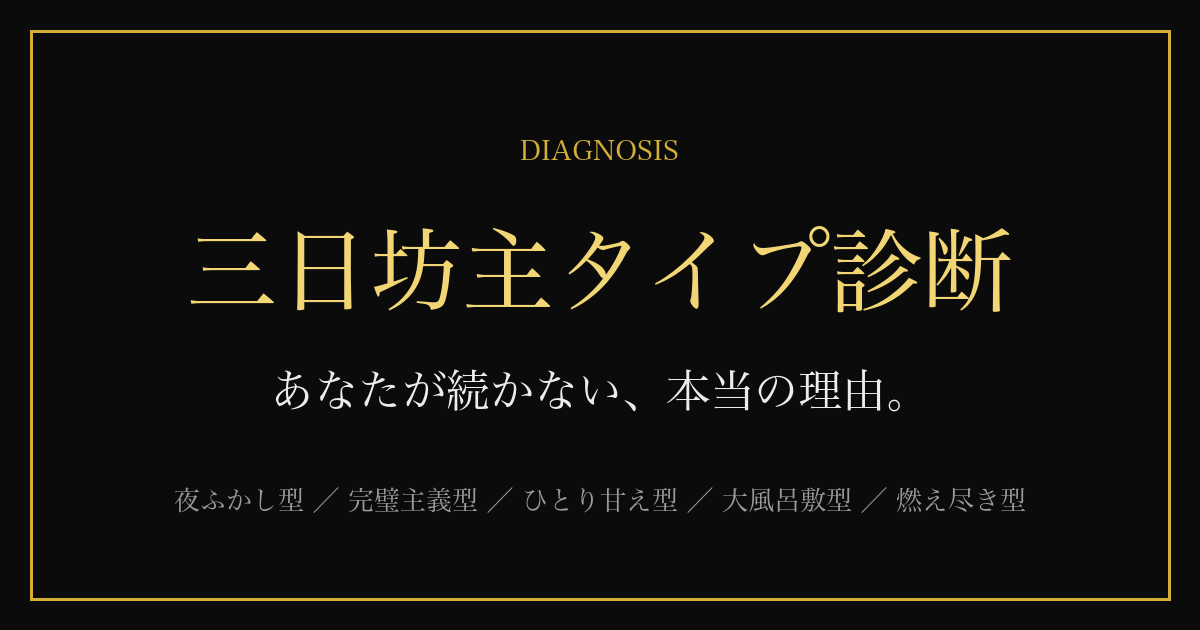
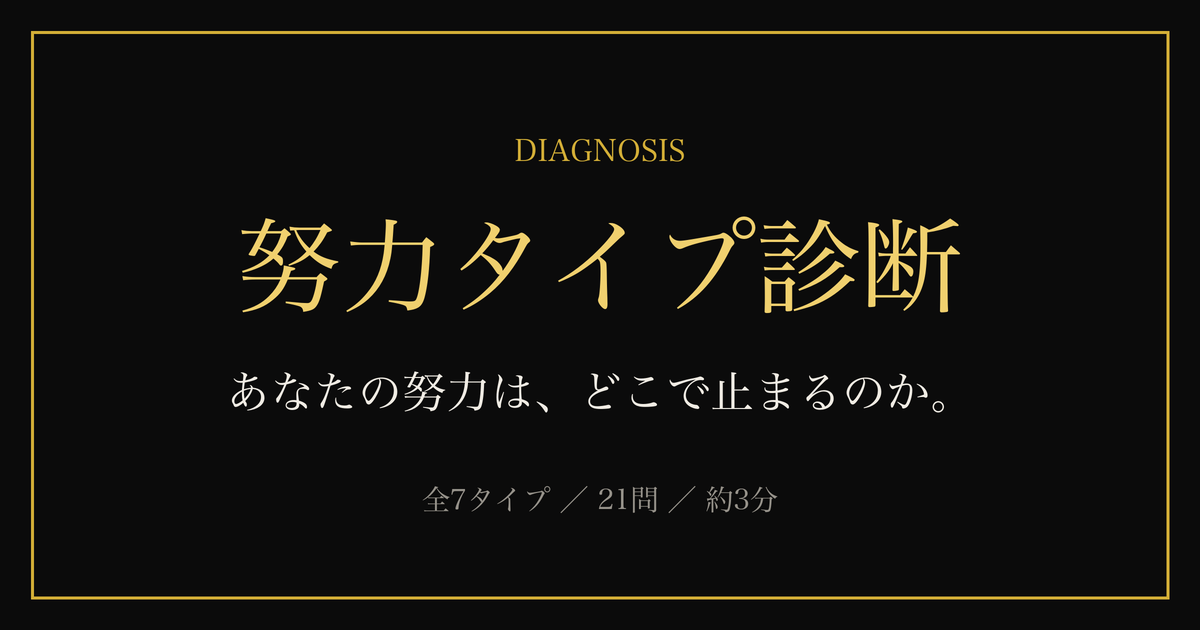
努力タイプ診断に改名し、7タイプ・21問に拡張

diff --git a/index.html b/index.html
@@ -3,11 +3,11 @@
 <head>
 <meta charset="utf-8">
 <meta name="viewport" content="width=device-width,initial-scale=1,viewport-fit=cover">
-<title>三日坊主タイプ診断｜あなたが続かない、本当の理由</title>
-<meta name="description" content="15の質問に答えるだけ。約2分で、あなたが続かない原因と、今日からの処方箋が分かります。">
+<title>努力タイプ診断｜あなたの努力は、どこで止まるのか</title>
+<meta name="description" content="21の質問に答えるだけ。約3分で、あなたの努力のタイプと、努力が止まる原因、今日からの処方箋が分かります。">
 <meta property="og:type" content="website">
-<meta property="og:title" content="三日坊主タイプ診断｜あなたが続かない、本当の理由">
-<meta property="og:description" content="15の質問に答えるだけ。約2分で、あなたが続かない原因と、今日からの処方箋が分かります。">
+<meta property="og:title" content="努力タイプ診断｜あなたの努力は、どこで止まるのか">
+<meta property="og:description" content="21の質問に答えるだけ。約3分で、あなたの努力のタイプと、努力が止まる原因、今日からの処方箋が分かります。">
 <meta property="og:image" content="https://baseball1018185-sys.github.io/mikkabozu-shindan/og.png">
 <meta property="og:url" content="https://baseball1018185-sys.github.io/mikkabozu-shindan/">
 <meta name="twitter:card" content="summary_large_image">
@@ -93,17 +93,17 @@ h1,h2,h3,.mincho{font-family:var(--mincho)}
   <section id="intro" class="screen">
     <div class="intro">
       <div class="eyebrow">DIAGNOSIS</div>
-      <h1><span>三日坊主</span><br>タイプ診断</h1>
-      <p class="lead">あなたが続かない、本当の理由。</p>
-      <p>15の質問に答えるだけ。約2分で、あなたが続かない原因と、今日からの処方箋が分かります。</p>
-      <div class="types"><span>夜ふかし型</span><span>完璧主義型</span><span>ひとり甘え型</span><span>大風呂敷型</span><span>燃え尽き型</span></div>
+      <h1><span>努力</span><br>タイプ診断</h1>
+      <p class="lead">あなたの努力は、どこで止まるのか。</p>
+      <p>21の質問に答えるだけ。約3分で、あなたの努力のタイプと、努力が止まる原因、今日からの処方箋が分かります。</p>
+      <div class="types" id="typeChips"></div>
       <button class="btn btn-gold" id="startBtn">診断をはじめる</button>
       <p class="note" style="margin-top:16px">※エンタメと自己理解のための簡易診断です。医学的な診断ではありません。</p>
     </div>
   </section>
 
   <section id="quiz" class="screen" hidden>
-    <div class="top"><button class="back" id="backBtn">← 戻る</button><span class="count" id="count">1 / 15</span></div>
+    <div class="top"><button class="back" id="backBtn">← 戻る</button><span class="count" id="count">1 / 21</span></div>
     <div class="bar"><i id="barFill"></i></div>
     <div class="qnum" id="qnum">Q1</div>
     <p class="qtext" id="qtext"></p>
@@ -117,12 +117,13 @@ h1,h2,h3,.mincho{font-family:var(--mincho)}
       <p class="catch" id="rCatch"></p>
     </div>
     <p class="lowmsg" id="lowMsg" hidden>どのタイプの傾向も弱めでした。今のやり方で続けられているなら、それが一番です。いちばん近いのは、このタイプです。</p>
-    <svg class="radar" id="radar" viewBox="0 0 340 320" role="img" aria-label="5つのタイプの傾向"></svg>
+    <svg class="radar" id="radar" viewBox="0 0 360 340" role="img" aria-label="7つのタイプの傾向"></svg>
 
-    <div class="card"><h3><b>1</b>あなたの特徴</h3><ul id="rTraits"></ul></div>
-    <div class="card"><h3><b>2</b>なぜ続かないのか</h3><p id="rCause"></p><div class="src" id="rSrc"></div></div>
-    <div class="card"><h3><b>3</b>今日からの処方箋</h3><ol id="rRx"></ol></div>
-    <div class="card"><h3><b>4</b>帝国なら、こう続けられる</h3><p id="rTeikoku"></p></div>
+    <div class="card"><h3><b>1</b>あなたの強み</h3><p id="rStrong"></p></div>
+    <div class="card"><h3><b>2</b>努力が止まるところ</h3><ul id="rTraits"></ul></div>
+    <div class="card"><h3><b>3</b>なぜ止まるのか</h3><p id="rCause"></p><div class="src" id="rSrc"></div></div>
+    <div class="card"><h3><b>4</b>今日からの処方箋</h3><ol id="rRx"></ol></div>
+    <div class="card"><h3><b>5</b>帝国なら、こう続けられる</h3><p id="rTeikoku"></p></div>
 
     <div class="share">
       <button class="btn btn-gold" id="shareImgBtn">結果を画像で保存・シェア</button>
@@ -150,7 +151,7 @@ h1,h2,h3,.mincho{font-family:var(--mincho)}
   <div class="box">
     <img id="shareImg" alt="診断結果の画像">
     <p>画像を長押しすると保存できます。ストーリーズに載せてみてください。</p>
-    <a class="btn btn-gold" id="dlBtn" download="mikkabozu.png">画像を保存する</a>
+    <a class="btn btn-gold" id="dlBtn" download="doryoku-type.png">画像を保存する</a>
     <button class="btn btn-ghost" id="closeModal">閉じる</button>
   </div>
 </div>
@@ -165,38 +166,57 @@ const CONFIG = {
 };
 /* ============================================== */
 
-const AXES = ["night","perfect","alone","big","tired"];
+const AXES = ["perfect","night","alone","big","tired","prep","drift"];
 const TYPES = {
   night:{name:"夜ふかし型",short:"夜ふかし",catch:"夜に元気、朝に負ける人",
+    strong:"夜の集中力が高く、ハマった時の没頭は誰よりも深い。",
     traits:["夜になると頭が冴えて、「明日こそやろう」と思える。","でも寝るのが遅くなり、朝は起きられない。","決めたのは夜の自分、破るのは朝の自分。"],
     cause:"体内時計が夜側にずれています。厚生労働省の睡眠ガイドでは、起きてすぐ朝日の光を浴びると体内時計がリセットされるとされ、寝室にスマホを持ち込まないことが勧められています。",
     src:["厚生労働省「健康づくりのための睡眠ガイド2023」","https://www.mhlw.go.jp/stf/seisakunitsuite/bunya/kenkou_iryou/kenkou/suimin/index.html"],
     rx:["寝る時刻ではなく、起きる時刻を先に決める","起きたらすぐカーテンを開けて、朝日を浴びる","スマホは寝室の外で充電する"],
     teikoku:"挨拶部屋は、何時に起きても書けば出席です。まずは起きた時刻を毎日書いて、少しずつ早めていきましょう。朝が苦手なうちは、夜活ルームから始めても大丈夫です。"},
   perfect:{name:"完璧主義型",short:"完璧主義",catch:"1日の失敗で、全部を捨てる人",
+    strong:"始めた時の本気度と、質へのこだわりは誰よりも高い。",
     traits:["始めるときは、誰よりも本気。","でも1日でも予定どおりにいかないと、「もうダメだ」と思ってしまう。","そして、全部やめる。"],
     cause:"「1日休んだら終わり」という思い込みが原因です。ロンドン大学の研究では、習慣になるまで平均66日かかる一方、1日サボっても習慣化の確率は下がりませんでした。",
     src:["Lally et al.（2010）European Journal of Social Psychology","https://onlinelibrary.wiley.com/doi/10.1002/ejsp.674"],
     rx:["できなかった日も「やってない」と記録に残す","最低ラインを決める（疲れた日は1分でいい）","2日連続で休まないことだけ守る"],
     teikoku:"帝国では、月2回までは休んでも連続が切れません。連続が切れても、一度手に入れた称号は下がりません。「1日くらい大丈夫」が、ルールになっている場所です。"},
-  alone:{name:"ひとり甘え型",short:"ひとり甘え",catch:"誰も見ていないと、やめてしまう人",
+  alone:{name:"孤軍奮闘型",short:"孤軍奮闘",catch:"誰も見ていないと、やめてしまう人",
+    strong:"人との約束は必ず守る。責任感が強く、任されたことはやり切る。",
     traits:["人との約束は守れるのに、自分との約束は後回し。","1人で始めたことは、誰にも気づかれずに終わる。","「今日はいいか」が、毎日続く。"],
     cause:"1人の目標は、やめても誰にも気づかれません。138の研究をまとめた分析では、進捗を記録し、人に見せたり報告したりするほど、目標の達成が進むことが分かっています。",
     src:["Harkin et al.（2016）Psychological Bulletin","https://pubmed.ncbi.nlm.nih.gov/26479070/"],
     rx:["目標を1人に宣言する","毎日の結果を、誰かに報告する","報告する時刻を決めておく"],
     teikoku:"帝国では、起きたら挨拶部屋、寝る前に就寝報告部屋に書くだけ。それだけで、毎日「誰かに見られている」状態が作れます。"},
   big:{name:"大風呂敷型",short:"大風呂敷",catch:"目標が大きすぎて、動けなくなる人",
+    strong:"大きく考える力と、最初の1週間の爆発力がある。",
     traits:["やる気があるときに、大きな目標をいくつも立てる。","最初の1週間は全力。","でも途中で重くなって、止まってしまう。"],
     cause:"目標が大きすぎる、多すぎる、曖昧すぎるのが原因です。94の研究をまとめた分析では、「Xが起きたらYする」と具体的に決めておくだけで、目標の達成率が上がることが分かっています。",
     src:["Gollwitzer & Sheeran（2006）Advances in Experimental Social Psychology","https://www.researchgate.net/publication/37367696"],
     rx:["目標は1つに絞る","数字を入れる（「英語を頑張る」→「英単語を1日10個」）","4週に分けて、1週目を一番小さくする"],
     teikoku:"帝国の月間目標は、1つだけ。週間目標で4つに分けて、×だった週は「来週は何を1つ減らすか」を決めます。小さく始めて、◯を積み上げる場所です。"},
   tired:{name:"燃え尽き型",short:"燃え尽き",catch:"仕事終わりに、何も残っていない人",
+    strong:"仕事に全力を出せる。目の前のことに手を抜かない。",
     traits:["平日は仕事で精一杯。","帰ってからやろうと思っても、気づけばスマホを見て寝る時間。","「週末にまとめて」と思って、結局やらない。"],
     cause:"気力が残っていない時間に、大事なことを置いています。205人の1週間を記録した研究では、意志が強い人ほど我慢した回数はむしろ少なく、誘惑に出会う回数そのものが少ないことが分かりました。続く人は、根性ではなく環境で動いています。",
     src:["Hofmann et al.（2012）Journal of Personality and Social Psychology","https://pubmed.ncbi.nlm.nih.gov/22149456/"],
     rx:["やることを「5分で終わる大きさ」にする","準備を前の日に済ませて、始めるまでの手間を減らす","気力が残っている朝か、昼休みに回す"],
-    teikoku:"帝国の朝活ルームと夜活ルームは、入るだけでOK。カメラもマイクもオフのまま、誰かがいる場所で5分だけ手を動かす。そこから始められます。"}
+    teikoku:"帝国の朝活ルームと夜活ルームは、入るだけでOK。カメラもマイクもオフのまま、誰かがいる場所で5分だけ手を動かす。そこから始められます。"},
+  prep:{name:"準備万端型",short:"準備万端",catch:"調べて満足して、始めない人",
+    strong:"調べる力と、計画を立てる力は誰よりも高い。",
+    traits:["始める前に、本や動画でやり方を集める。","計画を立てた時点で、やった気になる。","「もう少し調べてから」で、1ヶ月が終わる。"],
+    cause:"「やるつもり」と「やった」の間には、大きな溝があります。47の実験をまとめた分析では、「やろう」という気持ちを大きく高めても、実際の行動は少ししか変わりませんでした。足りないのは知識ではなく、最初の1回です。",
+    src:["Webb & Sheeran（2006）Psychological Bulletin","https://pubmed.ncbi.nlm.nih.gov/16536643/"],
+    rx:["調べるのは15分まで、と決める","今日できる一番小さい行動を1つやる","計画より先に、やった記録を1行書く"],
+    teikoku:"帝国では、計画より先に「今日やったこと」を書きます。挨拶部屋に1行書いたら、それがもう1日目です。調べるのは、書いた後で大丈夫です。"},
+  drift:{name:"目移り型",short:"目移り",catch:"続く前に、次へ行く人",
+    strong:"新しいことを始める速さと、好奇心は誰よりも強い。",
+    traits:["新しい方法や教材を見ると、すぐ試したくなる。","2週間たつと飽きて、別のものに乗り換える。","始めたものは多いのに、終わったものがない。"],
+    cause:"成果を分けるのは、才能よりも「同じ目標を追い続ける力」です。ペンシルベニア大学の研究では、長い目標に粘り強く取り組む人ほど、IQに関係なく学歴や成績などの成果が高いことが分かっています。",
+    src:["Duckworth et al.（2007）Journal of Personality and Social Psychology","https://pubmed.ncbi.nlm.nih.gov/17547490/"],
+    rx:["今やっている1つを、4週間は変えない","新しくやりたいことは「来月の候補」にメモするだけ","飽きたら、やめるのではなく量を半分にする"],
+    teikoku:"帝国の月間目標は1つだけで、月の途中では変えません。やりたいことが増えたら、来月の候補にします。1ヶ月続けた分は、称号として残ります。"}
 };
 const QUESTIONS = [
   {t:"night",q:"夜になると元気が出て、つい夜更かししてしまう"},
@@ -213,10 +233,16 @@ const QUESTIONS = [
   {t:"big",q:"始めた最初の1週間が、一番がんばっている"},
   {t:"tired",q:"仕事から帰ると、何もする気が起きない"},
   {t:"tired",q:"「週末にまとめてやろう」と思って、結局やらない"},
-  {t:"tired",q:"疲れて、ソファやベッドで寝落ちすることがある"}
+  {t:"tired",q:"疲れて、ソファやベッドで寝落ちすることがある"},
+  {t:"prep",q:"始める前に、本や動画で調べる時間が長い"},
+  {t:"prep",q:"計画を立てただけで、満足してしまうことがある"},
+  {t:"prep",q:"「準備ができてから」と思って、始めるのが遅れる"},
+  {t:"drift",q:"新しい方法や教材を見ると、すぐ試したくなる"},
+  {t:"drift",q:"続ける前に、別のことを始めてしまう"},
+  {t:"drift",q:"買っただけ、登録しただけで終わったものがある"}
 ];
 const CHOICES = [["よくある",3],["ときどき",2],["あまりない",1],["ない",0]];
-const PRIORITY = ["perfect","alone","big","night","tired"];
+const PRIORITY = ["perfect","alone","big","prep","drift","night","tired"];
 
 const $ = id => document.getElementById(id);
 let order=[], answers={}, idx=0, lastResult=null;
@@ -255,7 +281,7 @@ function compute(){
 function finish(){
   $("barFill").style.width="100%";
   const r=compute(); lastResult=r; const T=TYPES[r.type];
-  $("rName").textContent=T.name; $("rCatch").textContent=T.catch; $("lowMsg").hidden=!r.low;
+  $("rName").textContent=T.name; $("rCatch").textContent=T.catch; $("rStrong").textContent=T.strong; $("lowMsg").hidden=!r.low;
   $("rTraits").innerHTML=T.traits.map(s=>`<li>${s}</li>`).join("");
   $("rCause").textContent=T.cause;
   $("rSrc").innerHTML=`出典：<a href="${T.src[1]}" target="_blank" rel="noopener">${T.src[0]}</a>`;
@@ -263,7 +289,7 @@ function finish(){
   $("rTeikoku").textContent=T.teikoku;
   drawRadarSVG(r.score, r.type);
   const url=location.href.split("#")[0].split("?")[0];
-  const text=`私は【${T.name}】でした。${T.catch}。\n#三日坊主タイプ診断`;
+  const text=`私は【${T.name}】でした。${T.catch}。\n#努力タイプ診断`;
   $("shareX").href=`https://twitter.com/intent/tweet?text=${encodeURIComponent(text)}&url=${encodeURIComponent(url)}`;
   $("shareLine").href=`https://social-plugins.line.me/lineit/share?url=${encodeURIComponent(url)}&text=${encodeURIComponent(text)}`;
   renderCTA();
@@ -279,15 +305,15 @@ function renderCTA(){
 }
 
 /* ---- レーダー（画面用SVG） ---- */
-function pts(cx,cy,r,vals){return vals.map((v,i)=>{const a=(-90+i*72)*Math.PI/180;return [cx+Math.cos(a)*r*v, cy+Math.sin(a)*r*v];});}
+function pts(cx,cy,r,vals){return vals.map((v,i)=>{const a=(-90+i*360/vals.length)*Math.PI/180;return [cx+Math.cos(a)*r*v, cy+Math.sin(a)*r*v];});}
 function drawRadarSVG(score,type){
-  const cx=170,cy=165,R=110, svg=$("radar"); let h="";
+  const cx=180,cy=172,R=108, svg=$("radar"); let h="";
   [1/3,2/3,1].forEach(k=>{h+=`<polygon points="${pts(cx,cy,R,AXES.map(()=>k)).map(p=>p.join(",")).join(" ")}" fill="none" stroke="#2f2f2f" stroke-width="1"/>`;});
   pts(cx,cy,R,AXES.map(()=>1)).forEach(p=>{h+=`<line x1="${cx}" y1="${cy}" x2="${p[0]}" y2="${p[1]}" stroke="#2f2f2f"/>`;});
   const vals=AXES.map(a=>Math.max(.06,score[a]/9));
   h+=`<polygon points="${pts(cx,cy,R,vals).map(p=>p.join(",")).join(" ")}" fill="rgba(212,175,55,.28)" stroke="#d4af37" stroke-width="2"/>`;
   pts(cx,cy,R,vals).forEach(p=>{h+=`<circle cx="${p[0]}" cy="${p[1]}" r="3.5" fill="#f2d675"/>`;});
-  pts(cx,cy,R+30,AXES.map(()=>1)).forEach((p,i)=>{const a=AXES[i],on=a===type;
+  pts(cx,cy,R+32,AXES.map(()=>1)).forEach((p,i)=>{const a=AXES[i],on=a===type;
     h+=`<text x="${p[0]}" y="${p[1]+4}" text-anchor="middle" font-size="13" font-family="Noto Sans JP, sans-serif" fill="${on?'#f2d675':'#9a9a9a'}" font-weight="${on?700:400}">${TYPES[a].short}</text>`;});
   svg.innerHTML=h;
 }
@@ -302,8 +328,8 @@ async function makeImage(){
   g.fillStyle=grd; g.fillRect(0,0,1080,1920);
   g.strokeStyle="#d4af37"; g.lineWidth=3; g.strokeRect(60,60,960,1800);
   g.textAlign="center"; const M='"Shippori Mincho B1","Hiragino Mincho ProN",serif', S='"Noto Sans JP","Hiragino Sans",sans-serif';
-  g.fillStyle="#d4af37"; g.font=`700 44px ${M}`; g.fillText("三日坊主タイプ診断",540,210);
-  g.fillStyle="#bbbbbb"; g.font=`500 46px ${M}`; g.fillText("私のタイプは",540,390);
+  g.fillStyle="#d4af37"; g.font=`700 44px ${M}`; g.fillText("努力タイプ診断",540,210);
+  g.fillStyle="#bbbbbb"; g.font=`500 46px ${M}`; g.fillText("私の努力タイプは",540,390);
   g.fillStyle="#f2d675"; g.font=`800 150px ${M}`; g.fillText(T.name,540,580);
   g.fillStyle="#ececec"; g.font=`700 54px ${M}`; g.fillText(T.catch,540,700);
   const cx=540,cy=1140,R=280;
@@ -313,23 +339,24 @@ async function makeImage(){
   const vals=AXES.map(a=>Math.max(.06,r.score[a]/9));
   g.beginPath(); pts(cx,cy,R,vals).forEach((p,i)=>i?g.lineTo(p[0],p[1]):g.moveTo(p[0],p[1])); g.closePath();
   g.fillStyle="rgba(212,175,55,.3)"; g.fill(); g.strokeStyle="#d4af37"; g.lineWidth=5; g.stroke();
-  pts(cx,cy,R+80,AXES.map(()=>1)).forEach((p,i)=>{const a=AXES[i],on=a===r.type; g.fillStyle=on?"#f2d675":"#9a9a9a"; g.font=`${on?700:400} 40px ${S}`; g.fillText(TYPES[a].short,p[0],p[1]+14);});
+  pts(cx,cy,R+84,AXES.map(()=>1)).forEach((p,i)=>{const a=AXES[i],on=a===r.type; g.fillStyle=on?"#f2d675":"#9a9a9a"; g.font=`${on?700:400} 36px ${S}`; g.fillText(TYPES[a].short,p[0],p[1]+14);});
   g.fillStyle="#ececec"; g.font=`500 44px ${M}`; g.fillText("あなたは、何型？",540,1640);
-  g.fillStyle="#d4af37"; g.font=`400 34px ${S}`; g.fillText("#三日坊主タイプ診断",540,1715);
+  g.fillStyle="#d4af37"; g.font=`400 34px ${S}`; g.fillText("#努力タイプ診断",540,1715);
   return new Promise(res=>c.toBlob(b=>res(b),"image/png"));
 }
 async function shareImage(){
   const btn=$("shareImgBtn"); btn.textContent="画像を作っています…"; btn.disabled=true;
   try{
     const blob=await makeImage(); const T=TYPES[lastResult.type];
-    const file=new File([blob],`mikkabozu_${lastResult.type}.png`,{type:"image/png"});
+    const file=new File([blob],`doryoku-type_${lastResult.type}.png`,{type:"image/png"});
     if(navigator.canShare && navigator.canShare({files:[file]})){
-      try{await navigator.share({files:[file],text:`私は【${T.name}】でした。#三日坊主タイプ診断`});return;}catch(e){if(e&&e.name==="AbortError")return;}
+      try{await navigator.share({files:[file],text:`私は【${T.name}】でした。#努力タイプ診断`});return;}catch(e){if(e&&e.name==="AbortError")return;}
     }
     const url=URL.createObjectURL(blob); $("shareImg").src=url; $("dlBtn").href=url; $("dlBtn").download=file.name; $("modal").hidden=false;
   } finally { btn.textContent="結果を画像で保存・シェア"; btn.disabled=false; }
 }
 
+$("typeChips").innerHTML=AXES.map(a=>`<span>${TYPES[a].name}</span>`).join("");
 $("startBtn").onclick=start; $("backBtn").onclick=back; $("retryBtn").onclick=()=>show("intro");
 $("shareImgBtn").onclick=shareImage; $("closeModal").onclick=()=>$("modal").hidden=true;
 $("modal").onclick=e=>{if(e.target.id==="modal")$("modal").hidden=true;};
